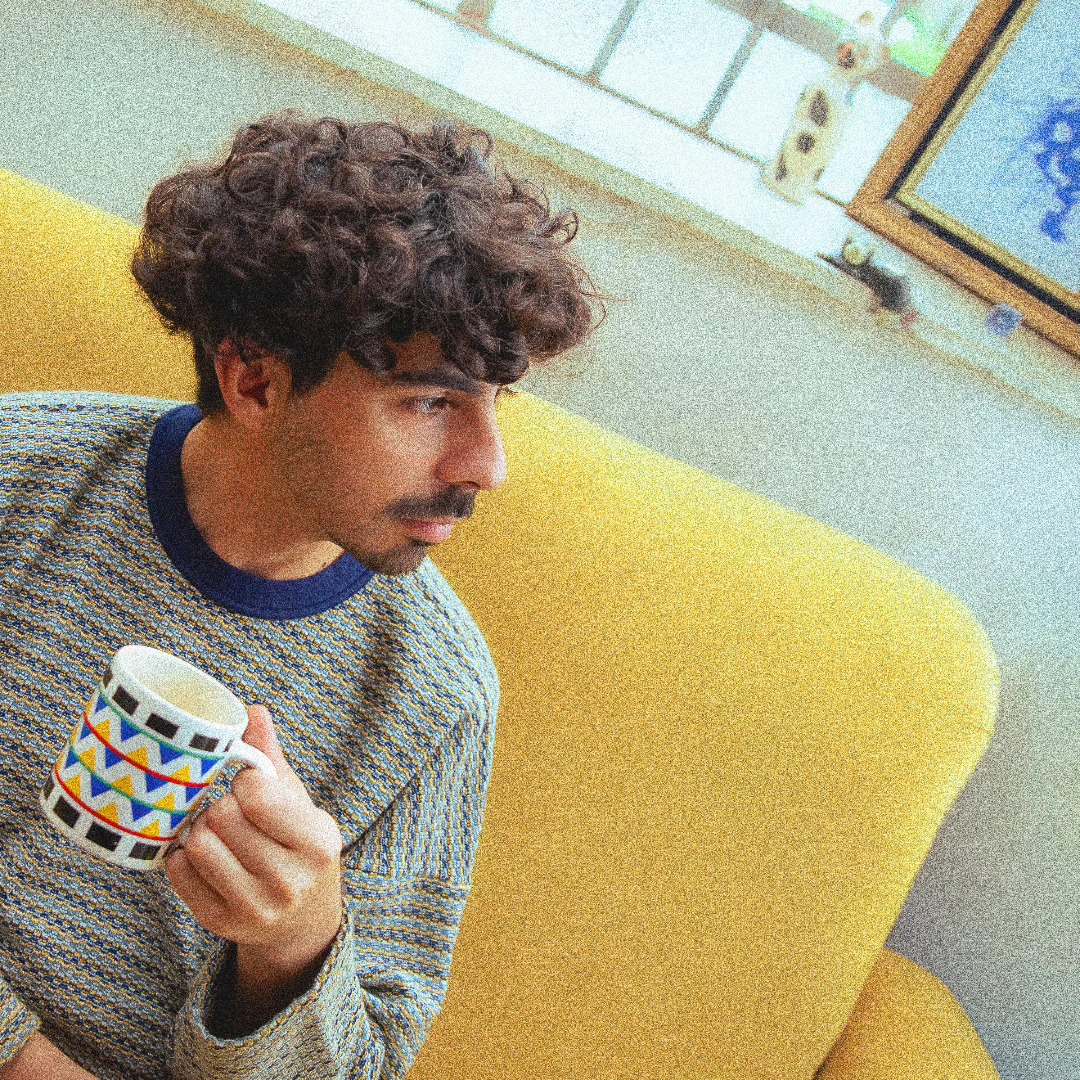
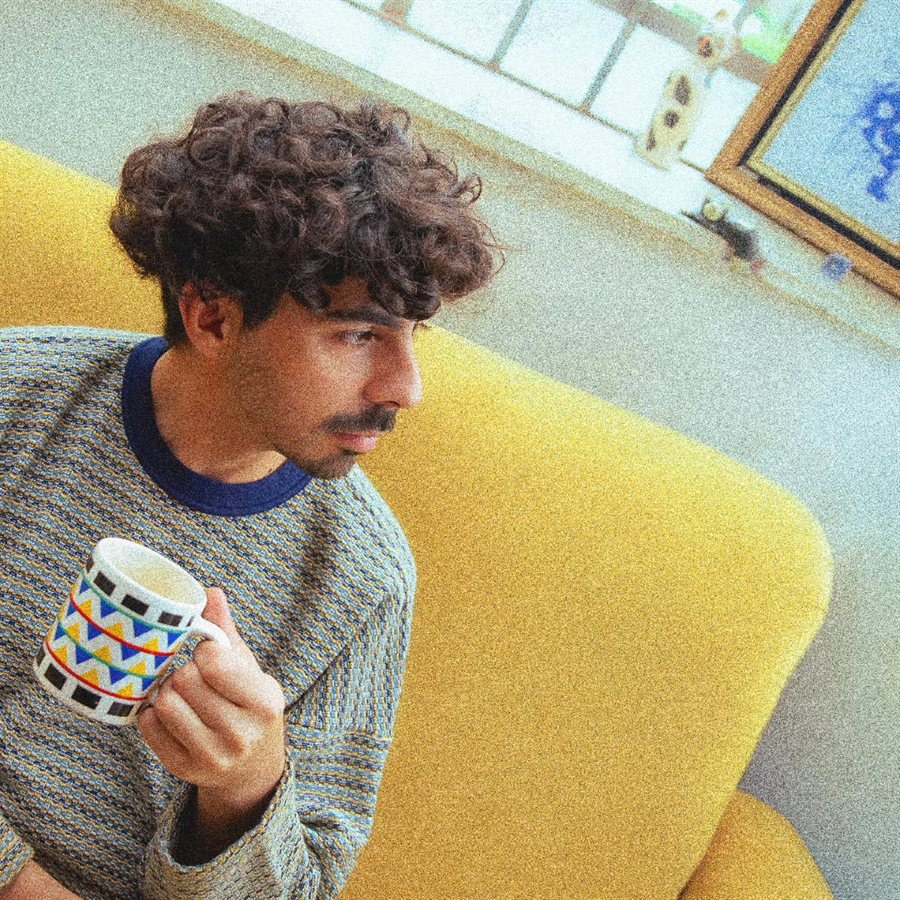
Pasada de pulido: Servicios navy, crema cálido, contraste, contacto, OG
- Servicios sobre banda navy (alternancia de ritmo con Discografía)
- Crema base más cálido (#E8E3D9) para suavizar el contraste con las bandas
- Texto de lectura más oscuro (cumple contraste AA)
- Nav en semibold
- Contacto: datos (email, ubicación, respuesta) e íconos más grandes
- Footer rebalanceado
- Imagen OG 1200x630 para compartir + meta tags
- Tapas más pesadas comprimidas (~670 KB menos)

diff --git a/index.html b/index.html
@@ -7,10 +7,13 @@
 <meta name="description" content="Estudio de audio profesional en Buenos Aires. Grabación, mezcla, mastering y sonido en vivo con criterio musical y rigor técnico.">
 <meta property="og:title" content="Haiku Estudio">
 <meta property="og:description" content="Grabación, mezcla y mastering con criterio. Buenos Aires.">
-<meta property="og:image" content="https://haikuestudio.com/logo.png">
+<meta property="og:image" content="https://haikuestudio.com/og.png">
+<meta property="og:image:width" content="1200">
+<meta property="og:image:height" content="630">
 <meta property="og:url" content="https://haikuestudio.com">
 <meta property="og:type" content="website">
 <meta name="twitter:card" content="summary_large_image">
+<meta name="twitter:image" content="https://haikuestudio.com/og.png">
 <link rel="icon" type="image/png" href="logo.png">
 <link rel="apple-touch-icon" href="logo.png">
 <meta name="theme-color" content="#2B3D53">
@@ -21,9 +24,9 @@
   *, *::before, *::after { box-sizing: border-box; margin: 0; padding: 0; }
 
   :root {
-    --bg: #F2F1EE;
+    --bg: #E8E3D9;
     --ink: #1E2535;
-    --mid: #6B7280;
+    --mid: #565D6B;
     --faint: #BFC4C9;
     --green: #5C7A52;
     --green-light: #9CB78F;
@@ -101,8 +104,8 @@
 
   .nav-links { display: flex; gap: 2.5rem; list-style: none; }
   .nav-links a {
-    font-size: 11px; letter-spacing: 0.15em; text-transform: uppercase;
-    color: rgba(242, 241, 238, 0.72); text-decoration: none; transition: color 0.2s;
+    font-size: 11px; font-weight: 600; letter-spacing: 0.14em; text-transform: uppercase;
+    color: rgba(242, 241, 238, 0.85); text-decoration: none; transition: color 0.2s;
     position: relative;
   }
   .nav-links a::after {
@@ -190,7 +193,7 @@
   .hero-photo::after {
     content: '';
     position: absolute; inset: 0; z-index: 2;
-    background: linear-gradient(to bottom, transparent 58%, rgba(242,241,238,0.28) 100%);
+    background: linear-gradient(to bottom, transparent 58%, rgba(232,227,217,0.30) 100%);
   }
 
   /* SECTIONS */
@@ -353,6 +356,15 @@
   .band-dark .section-label { color: rgba(242, 241, 238, 0.5); }
   .band-dark .section-label::before { background: rgba(242, 241, 238, 0.3); }
   .band-dark .works-note { color: rgba(242, 241, 238, 0.45); }
+  .band-dark .cc-num { color: var(--green-light); }
+  .band-dark .cc-name { color: var(--bg); }
+  .band-dark .cc-desc { color: rgba(242, 241, 238, 0.66); }
+  .band-dark .snode-num { color: rgba(242, 241, 238, 0.45); }
+  .band-dark .snode-name { color: rgba(242, 241, 238, 0.82); }
+  .band-dark .snode:hover .snode-num { color: var(--green-light); }
+  .band-dark .snode:hover .snode-name { color: var(--bg); }
+  .band-dark .cc-idle svg { filter: drop-shadow(0 0 7px rgba(242, 241, 238, 0.16)); }
+  .band-dark .service-m-name { color: rgba(242, 241, 238, 0.82); }
 
   /* SOBRE */
   #sobre { border-top: 0.5px solid var(--faint); border-bottom: 0.5px solid var(--faint); }
@@ -377,11 +389,18 @@
 
   .contacto-left h2 { font-family: var(--serif); font-size: 48px; font-weight: 400; line-height: 1.1; color: var(--ink); margin-bottom: 1.5rem; letter-spacing: -0.02em; }
   .contacto-left h2 em { font-style: italic; color: var(--green); }
-  .contacto-left p { font-size: 13px; color: var(--mid); line-height: 1.8; margin-bottom: 2.5rem; }
+  .contacto-left p { font-size: 13px; color: var(--mid); line-height: 1.8; margin-bottom: 2.25rem; }
 
-  .contacto-links { display: flex; flex-direction: row; gap: 1.5rem; align-items: center; }
+  .contacto-details { display: flex; flex-direction: column; gap: 1.15rem; margin-bottom: 2.5rem; }
+  .contacto-detail { display: flex; flex-direction: column; gap: 0.3rem; }
+  .cd-label { font-size: 9px; letter-spacing: 0.16em; text-transform: uppercase; color: var(--faint); }
+  .contacto-detail a, .cd-value { font-size: 14.5px; color: var(--ink); text-decoration: none; transition: color 0.2s; width: fit-content; }
+  .contacto-detail a:hover { color: var(--green); }
+
+  .contacto-links { display: flex; flex-direction: row; gap: 1.6rem; align-items: center; }
   .contacto-links a { color: var(--mid); text-decoration: none; display: flex; align-items: center; transition: color 0.2s, transform 0.2s; }
   .contacto-links a:hover { color: var(--green); transform: translateY(-2px); }
+  .contacto-links svg { width: 24px; height: 24px; }
 
   .form-group { margin-bottom: 1.75rem; }
   .form-group label { display: block; font-size: 9px; letter-spacing: 0.15em; text-transform: uppercase; color: var(--faint); margin-bottom: 0.6rem; }
@@ -402,9 +421,10 @@
   footer { background: var(--nav-bg); padding: 4.5rem 4rem 2.5rem; }
   .footer-inner {
     max-width: 1100px; margin: 0 auto;
-    display: grid; grid-template-columns: 2fr 1fr; gap: 3rem;
+    display: flex; justify-content: space-between; gap: 3rem;
     padding-bottom: 3rem; border-bottom: 0.5px solid rgba(255, 255, 255, 0.1);
   }
+  .footer-col { text-align: right; }
   .footer-brand-top { display: flex; align-items: center; gap: 12px; margin-bottom: 1.3rem; }
   .footer-brand-top img { width: 56px; height: 56px; object-fit: contain; }
   .footer-brand-name { font-family: var(--serif); font-size: 21px; color: var(--bg); letter-spacing: 0.02em; }
@@ -448,7 +468,8 @@
     .sobre-figure::before { transform: translate(-10px, 10px); }
     .contacto-inner { grid-template-columns: 1fr; gap: 3rem; }
     footer { padding: 3.5rem 1.5rem 2rem; }
-    .footer-inner { grid-template-columns: 1fr; gap: 2.5rem; }
+    .footer-inner { flex-direction: column; gap: 2.5rem; }
+    .footer-col { text-align: left; }
     .footer-bottom { flex-direction: column; gap: 0.5rem; text-align: center; }
     .hero-meta { flex-wrap: wrap; gap: 1.5rem; }
     .nav-links { display: none; }
@@ -518,6 +539,7 @@
   </div>
 </section>
 
+<div class="band-dark">
 <section id="servicios">
   <p class="section-label reveal">Servicios</p>
 
@@ -652,6 +674,7 @@
     </div>
   </div>
 </section>
+</div>
 
 <section id="sobre">
   <div class="sobre-grid">
@@ -731,6 +754,11 @@
     <div class="contacto-left reveal">
       <h2>Hablemos<br>de tu<br><em>proyecto.</em></h2>
       <p>Para consultas sobre servicios, disponibilidad o presupuestos.</p>
+      <div class="contacto-details">
+        <div class="contacto-detail"><span class="cd-label">Email</span><a href="mailto:[email redacted]">[email redacted]</a></div>
+        <div class="contacto-detail"><span class="cd-label">Ubicación</span><span class="cd-value">CABA, Argentina · Presencial y remoto</span></div>
+        <div class="contacto-detail"><span class="cd-label">Respuesta</span><span class="cd-value">Dentro de 24–48 h</span></div>
+      </div>
       <div class="contacto-links">
         <a href="mailto:[email redacted]" aria-label="Email"><svg width="20" height="20" viewBox="0 0 24 24" fill="none" stroke="currentColor" stroke-width="1.5" stroke-linecap="round" stroke-linejoin="round"><rect x="2" y="4" width="20" height="16" rx="2"/><path d="M2 7l10 7 10-7"/></svg></a>
         <a href="https://wa.me/5493534016218" target="_blank" aria-label="WhatsApp"><svg width="20" height="20" viewBox="0 0 24 24" fill="currentColor"><path d="M17.472 14.382c-.297-.149-1.758-.867-2.03-.967-.273-.099-.471-.148-.67.15-.197.297-.767.966-.94 1.164-.173.199-.347.223-.644.075-.297-.15-1.255-.463-2.39-1.475-.883-.788-1.48-1.761-1.653-2.059-.173-.297-.018-.458.13-.606.134-.133.298-.347.446-.52.149-.174.198-.298.298-.497.099-.198.05-.371-.025-.52-.075-.149-.669-1.612-.916-2.207-.242-.579-.487-.5-.669-.51-.173-.008-.371-.01-.57-.01-.198 0-.52.074-.792.372-.272.297-1.04 1.016-1.04 2.479 0 1.462 1.065 2.875 1.213 3.074.149.198 2.096 3.2 5.077 4.487.709.306 1.262.489 1.694.625.712.227 1.36.195 1.871.118.571-.085 1.758-.719 2.006-1.413.248-.694.248-1.289.173-1.413-.074-.124-.272-.198-.57-.347m-5.421 7.403h-.004a9.87 9.87 0 01-5.031-1.378l-.361-.214-3.741.982.998-3.648-.235-.374a9.86 9.86 0 01-1.51-5.26c.001-5.45 4.436-9.884 9.888-9.884 2.64 0 5.122 1.03 6.988 2.898a9.825 9.825 0 012.893 6.994c-.003 5.45-4.437 9.884-9.885 9.884m8.413-18.297A11.815 11.815 0 0012.05 0C5.495 0 .16 5.335.157 11.892c0 2.096.547 4.142 1.588 5.945L.057 24l6.305-1.654a11.882 11.882 0 005.683 1.448h.005c6.554 0 11.89-5.335 11.893-11.893a11.821 11.821 0 00-3.48-8.413z"/></svg></a>